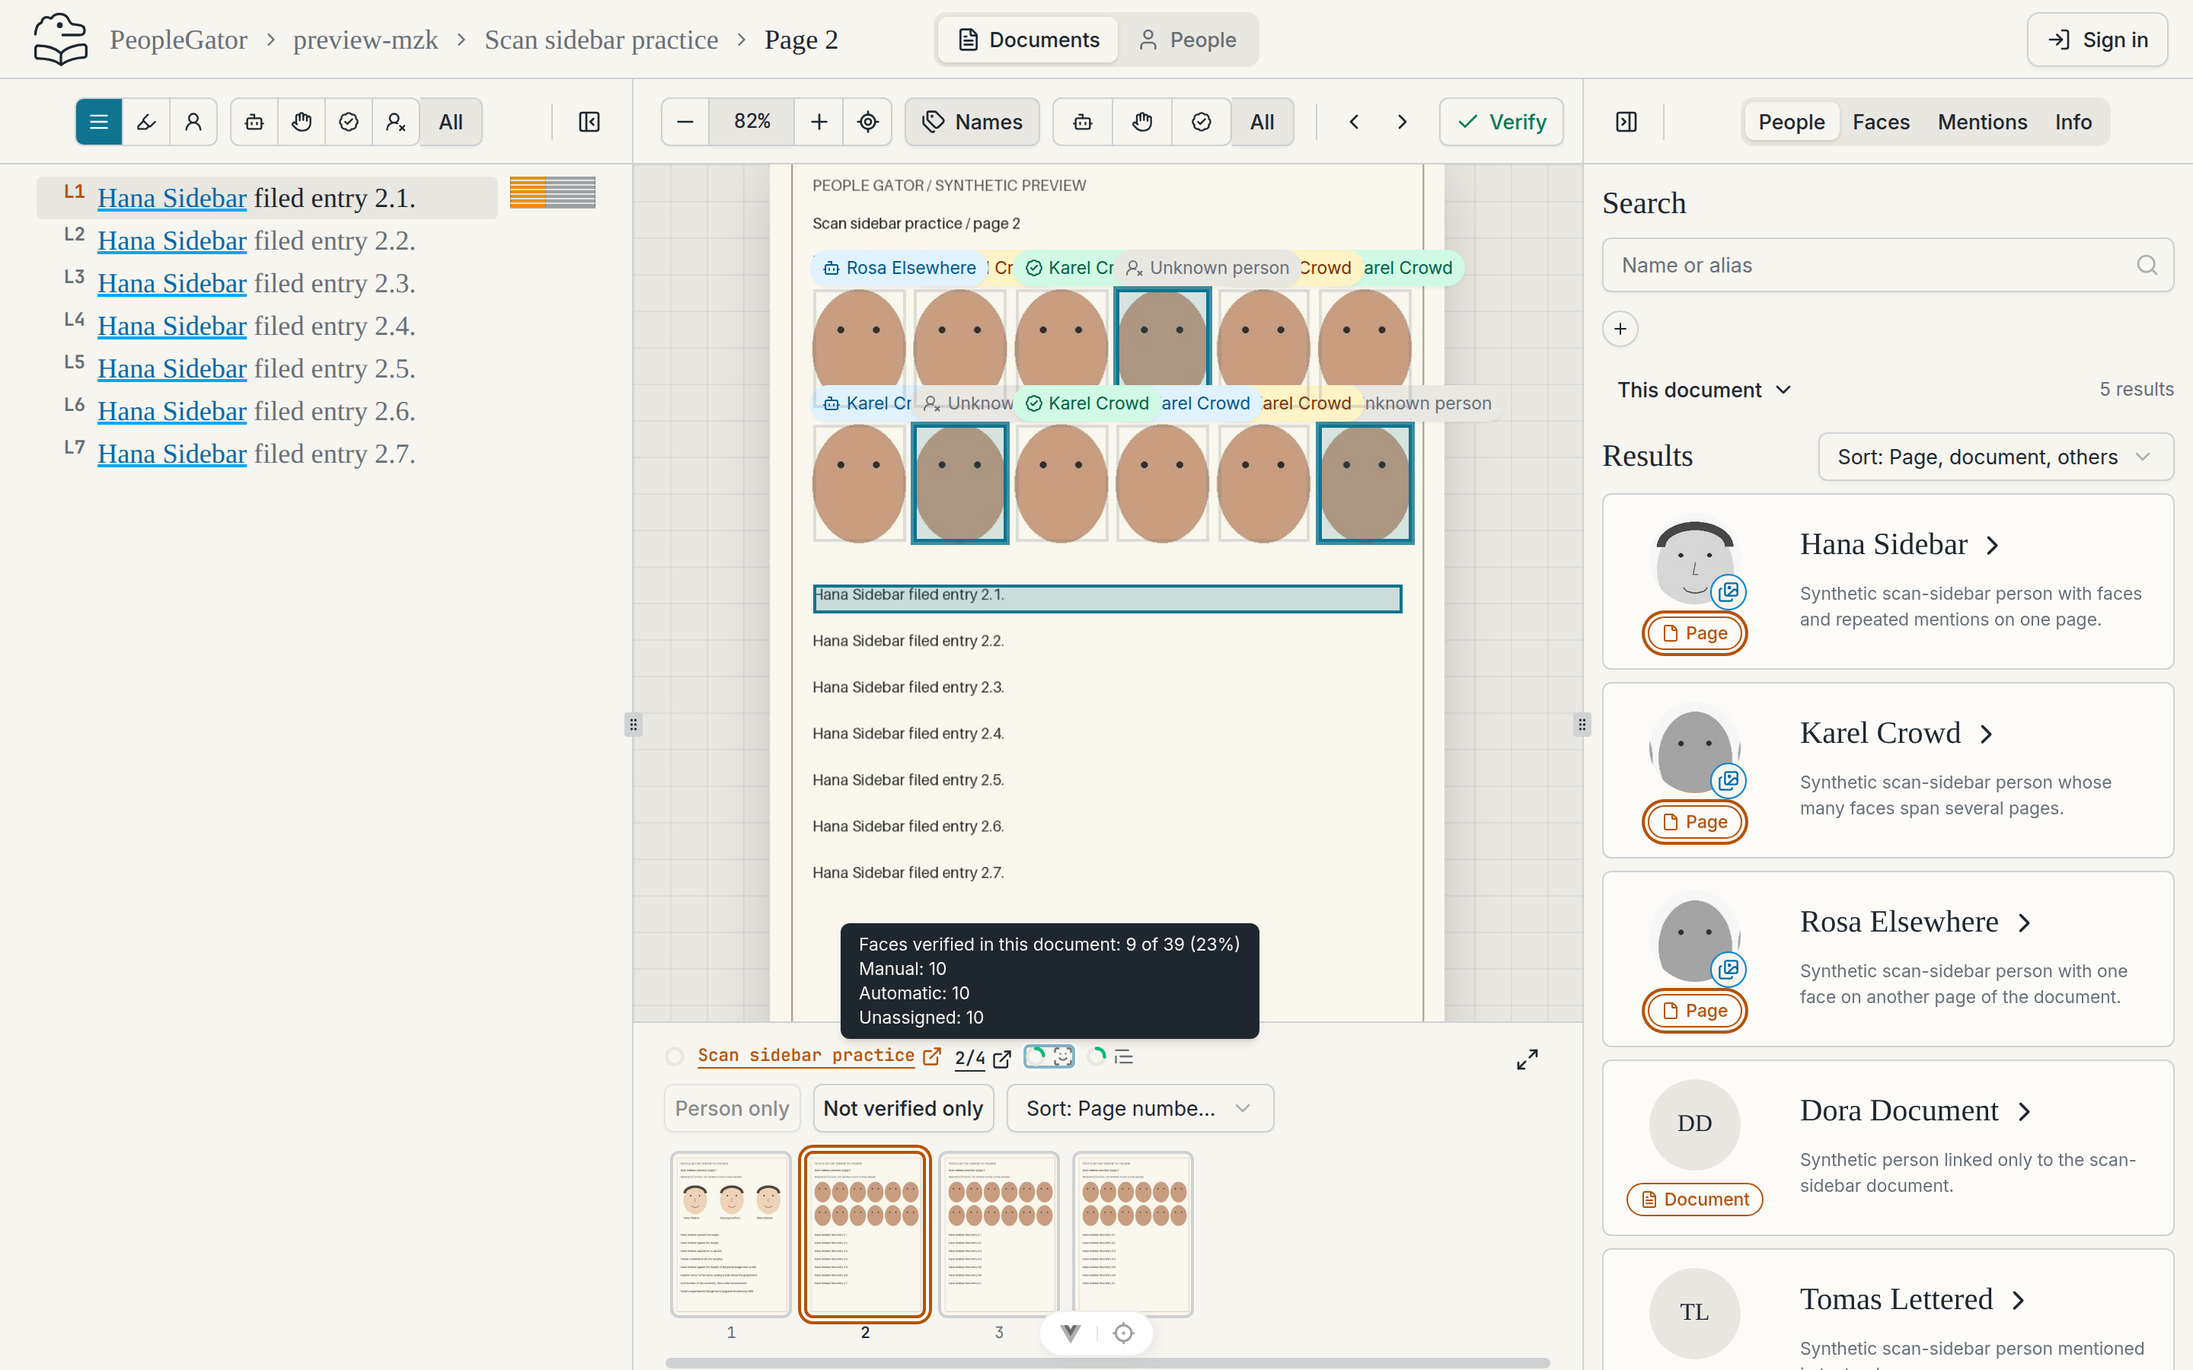
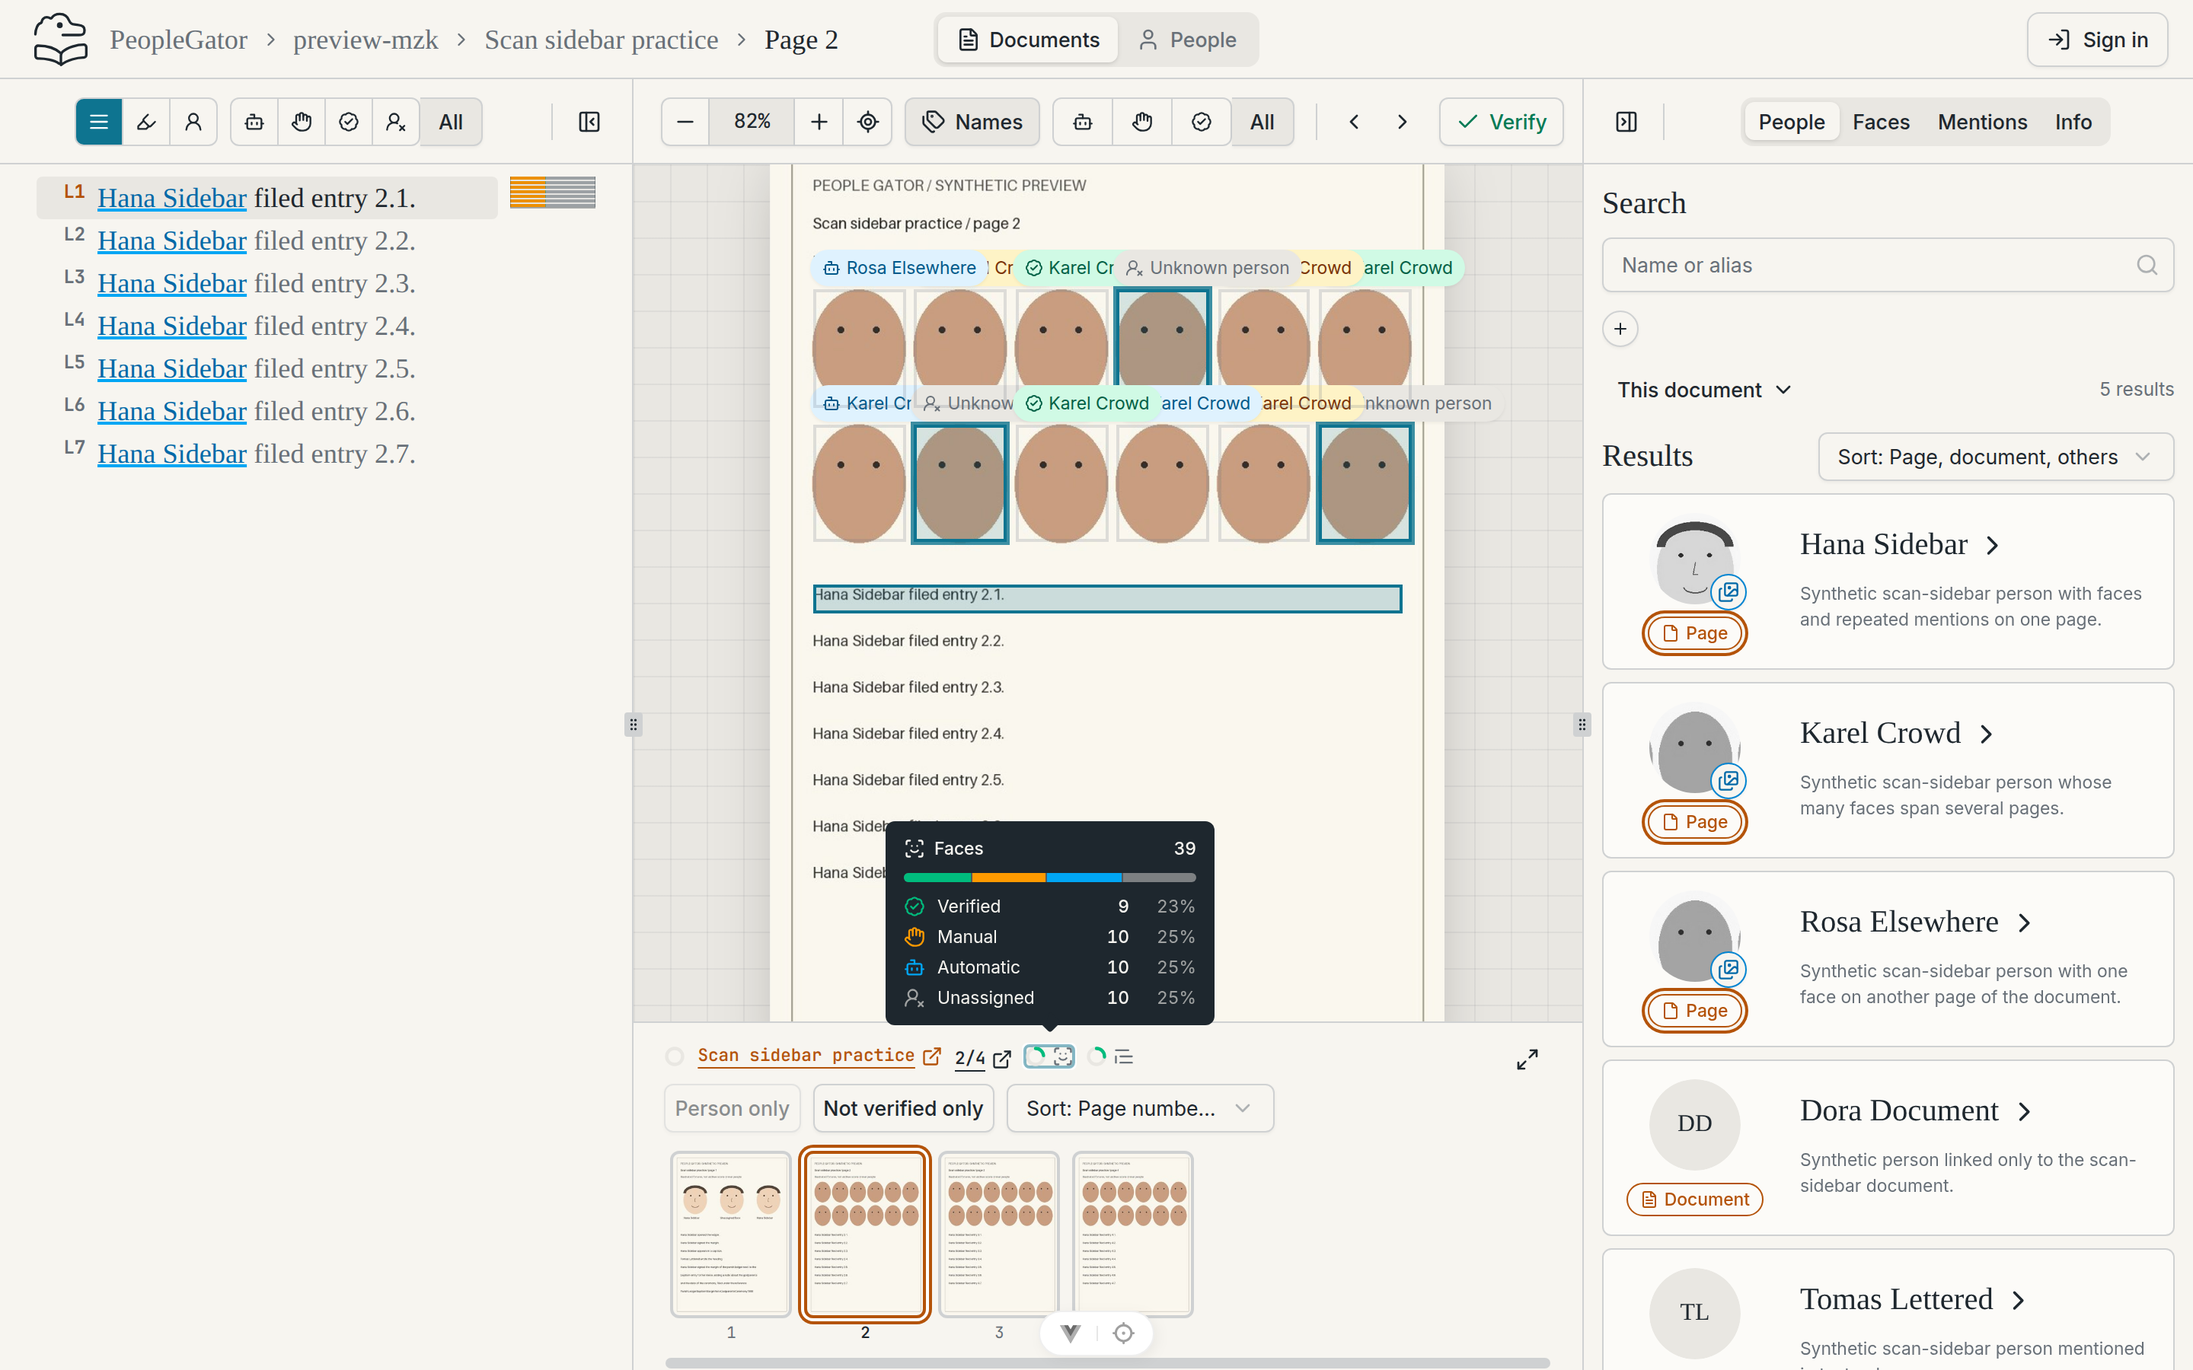
Show the progress ring breakdown as a structured shadcn tooltip (#180)
Adds the standard shadcn-vue Tooltip. Each ring's tooltip has a titled total,
a segmented bar and one row per state with its icon, count and share.

Changed region(s): [[0.375, 0.5911, 0.5938, 0.7778]]

diff --git a/people-gator-app/src/components/custom/VerificationProgress.vue b/people-gator-app/src/components/custom/VerificationProgress.vue
@@ -1,7 +1,8 @@
 <script setup lang="ts">
 import { computed } from 'vue'
-import { verificationProgress } from '@/lib/verification'
-import UiTooltip from './UiTooltip.vue'
+import { Tooltip, TooltipContent, TooltipProvider, TooltipTrigger } from '@/components/ui/tooltip'
+import { verificationProgress, type ProgressBreakdown } from '@/lib/verification'
+import ProgressBreakdownPanel from './ProgressBreakdown.vue'
 
 defineOptions({ inheritAttrs: false })
 
@@ -11,8 +12,8 @@ const props = defineProps<{
   hideCount?: boolean
   /** What is being verified; the default slot may show its icon after the ring. */
   noun?: string
-  /** Tooltip explaining the ring, one fact per line; makes the ring focusable. */
-  details?: string
+  /** Tooltip explaining the ring and splitting its total; makes the ring focusable. */
+  breakdown?: ProgressBreakdown
 }>()
 const RADIUS = 6
 const CIRCUMFERENCE = 2 * Math.PI * RADIUS
@@ -26,33 +27,40 @@ const label = computed(() =>
 </script>
 
 <template>
-  <UiTooltip v-if="details" :text="details">
-    <span
-      class="inline-flex shrink-0 items-center gap-1 text-sm tabular-nums"
-      role="img"
-      :aria-label="label"
-      tabindex="0"
-      data-verification-progress
-      v-bind="$attrs"
-    >
-      <svg viewBox="0 0 16 16" class="size-4 -rotate-90" aria-hidden="true">
-        <circle cx="8" cy="8" :r="RADIUS" fill="none" stroke-width="2.5" class="stroke-muted" />
-        <circle
-          v-if="share > 0"
-          cx="8"
-          cy="8"
-          :r="RADIUS"
-          fill="none"
-          stroke-width="2.5"
-          stroke-linecap="round"
-          class="stroke-emerald-500"
-          :stroke-dasharray="`${share * CIRCUMFERENCE} ${CIRCUMFERENCE}`"
-        />
-      </svg>
-      <slot />
-      <span v-if="!hideCount" aria-hidden="true">{{ known ? `${verified}/${total}` : '–/–' }}</span>
-    </span>
-  </UiTooltip>
+  <TooltipProvider v-if="breakdown" :delay-duration="200">
+    <Tooltip>
+      <TooltipTrigger as-child>
+        <span
+          class="inline-flex shrink-0 items-center gap-1 text-sm tabular-nums"
+          role="img"
+          :aria-label="label"
+          tabindex="0"
+          data-verification-progress
+          v-bind="$attrs"
+        >
+          <svg viewBox="0 0 16 16" class="size-4 -rotate-90" aria-hidden="true">
+            <circle cx="8" cy="8" :r="RADIUS" fill="none" stroke-width="2.5" class="stroke-muted" />
+            <circle
+              v-if="share > 0"
+              cx="8"
+              cy="8"
+              :r="RADIUS"
+              fill="none"
+              stroke-width="2.5"
+              stroke-linecap="round"
+              class="stroke-emerald-500"
+              :stroke-dasharray="`${share * CIRCUMFERENCE} ${CIRCUMFERENCE}`"
+            />
+          </svg>
+          <slot />
+          <span v-if="!hideCount" aria-hidden="true">{{
+            known ? `${verified}/${total}` : '–/–'
+          }}</span>
+        </span>
+      </TooltipTrigger>
+      <TooltipContent side="top"><ProgressBreakdownPanel :breakdown="breakdown" /></TooltipContent>
+    </Tooltip>
+  </TooltipProvider>
   <span
     v-else
     class="inline-flex shrink-0 items-center gap-1 text-sm tabular-nums"

diff --git a/people-gator-app/src/lib/verification.ts b/people-gator-app/src/lib/verification.ts
@@ -1,4 +1,5 @@
-import { BadgeCheck, CircleDashed } from '@lucide/vue'
+import { BadgeCheck, CircleDashed, FileText, ScanFace, TextQuote } from '@lucide/vue'
+import type { Component } from 'vue'
 import type { EntityLinkStateCounts, VerificationState } from '@/client'
 import { linkStateVisuals } from '@/lib/entity-links'
 
@@ -27,22 +28,62 @@ export function verifiedPercentLabel(verified?: number | null, total?: number | 
     : `${Math.floor(verificationProgress(verified, total) * 100)}%`
 }
 
-/** Tooltip for a document's page ring: what it measures, then the remainder. */
-export function pageProgressDetails(verified: number, total: number) {
-  return [
-    `Pages verified in this document: ${verified} of ${total} (${verifiedPercentLabel(verified, total)})`,
-    `Not verified: ${Math.max(0, total - verified)}`,
-  ].join('\n')
+/** One counted state in a progress tooltip; `tone` colours its icon and bar segment. */
+export type ProgressRow = {
+  key: string
+  label: string
+  icon: Component
+  count: number
+  tone: 'verified' | 'manual' | 'automatic' | 'rest'
+}
+/** What a progress ring measures and how its total splits up. */
+export type ProgressBreakdown = {
+  title: string
+  icon: Component
+  total: number
+  rows: ProgressRow[]
 }
 
-/** Tooltip for a document's face or mention ring, with every link state. */
-export function linkProgressDetails(kind: 'faces' | 'mentions', counts?: EntityLinkStateCounts) {
-  const verified = counts?.verified ?? 0
-  const total = counts?.total ?? 0
-  return [
-    `${kind === 'faces' ? 'Faces' : 'Mentions'} verified in this document: ${verified} of ${total} (${verifiedPercentLabel(verified, total)})`,
-    `Manual: ${counts?.manual ?? 0}`,
-    `Automatic: ${counts?.automatic ?? 0}`,
-    `Unassigned: ${counts?.unassigned ?? 0}`,
-  ].join('\n')
+/** Registered pages of a document: verified, then the remainder. */
+export function pageProgressBreakdown(verified: number, total: number): ProgressBreakdown {
+  return {
+    title: 'Pages',
+    icon: FileText,
+    total,
+    rows: [
+      {
+        key: 'verified',
+        label: verificationVisuals.verified.label,
+        icon: verificationVisuals.verified.icon,
+        count: verified,
+        tone: 'verified',
+      },
+      {
+        key: 'not_verified',
+        label: verificationVisuals.not_verified.label,
+        icon: verificationVisuals.not_verified.icon,
+        count: Math.max(0, total - verified),
+        tone: 'rest',
+      },
+    ],
+  }
+}
+
+/** A document's faces or mentions split by link state. */
+export function linkProgressBreakdown(
+  kind: 'faces' | 'mentions',
+  counts?: EntityLinkStateCounts,
+): ProgressBreakdown {
+  return {
+    title: kind === 'faces' ? 'Faces' : 'Mentions',
+    icon: kind === 'faces' ? ScanFace : TextQuote,
+    total: counts?.total ?? 0,
+    rows: (['verified', 'manual', 'automatic', 'unassigned'] as const).map((state) => ({
+      key: state,
+      label: linkStateVisuals[state].label,
+      icon: linkStateVisuals[state].icon,
+      count: counts?.[state] ?? 0,
+      tone: state === 'unassigned' ? 'rest' : state,
+    })),
+  }
 }

diff --git a/people-gator-app/src/components/custom/ProgressBreakdown.vue b/people-gator-app/src/components/custom/ProgressBreakdown.vue
@@ -1,0 +1,49 @@
+<script setup lang="ts">
+import type { ProgressBreakdown, ProgressRow } from '@/lib/verification'
+
+defineProps<{ breakdown: ProgressBreakdown }>()
+
+// Mid tones stay legible on the tooltip's inverted surface in both themes.
+const tones: Record<ProgressRow['tone'], { icon: string; bar: string }> = {
+  verified: { icon: 'text-emerald-500', bar: 'bg-emerald-500' },
+  manual: { icon: 'text-amber-500', bar: 'bg-amber-500' },
+  automatic: { icon: 'text-sky-500', bar: 'bg-sky-500' },
+  rest: { icon: 'opacity-60', bar: 'bg-background/25' },
+}
+const percent = (count: number, total: number) =>
+  total ? `${Math.floor((count / total) * 100)}%` : '–'
+</script>
+
+<template>
+  <div class="grid w-48 gap-2 py-1 text-left" data-progress-breakdown>
+    <div class="flex items-center gap-1.5 font-medium">
+      <component :is="breakdown.icon" class="size-3.5 shrink-0" aria-hidden="true" />
+      <span>{{ breakdown.title }}</span>
+      <span class="ml-auto tabular-nums">{{ breakdown.total }}</span>
+    </div>
+    <div class="flex h-1.5 gap-px overflow-hidden rounded-full bg-background/25" aria-hidden="true">
+      <template v-for="row in breakdown.rows" :key="row.key">
+        <span
+          v-if="row.count && breakdown.total"
+          :class="tones[row.tone].bar"
+          :style="{ width: `${(row.count / breakdown.total) * 100}%` }"
+        />
+      </template>
+    </div>
+    <dl class="grid grid-cols-[auto_1fr_auto_auto] items-center gap-x-2 gap-y-1">
+      <template v-for="row in breakdown.rows" :key="row.key">
+        <component
+          :is="row.icon"
+          class="size-3.5"
+          :class="tones[row.tone].icon"
+          aria-hidden="true"
+        />
+        <dt>{{ row.label }}</dt>
+        <dd class="text-right font-medium tabular-nums">{{ row.count }}</dd>
+        <dd class="w-9 text-right tabular-nums opacity-60">
+          {{ percent(row.count, breakdown.total) }}
+        </dd>
+      </template>
+    </dl>
+  </div>
+</template>

diff --git a/people-gator-app/src/__tests__/DocumentPageGallery.spec.ts b/people-gator-app/src/__tests__/DocumentPageGallery.spec.ts
@@ -103,6 +103,14 @@ describe('DocumentPageGallery', () => {
     ])
     expect(rings[0]!.findAll('circle')).toHaveLength(2)
     expect(rings[1]!.findAll('circle')).toHaveLength(1)
+    vi.stubGlobal(
+      'ResizeObserver',
+      class {
+        observe() {}
+        unobserve() {}
+        disconnect() {}
+      },
+    )
     // Focus explains the ring and breaks the total down by link state.
     await wrapper.setProps({
       linkStats: { faces: { verified: 2, manual: 1, automatic: 1, unassigned: 1, total: 5 } },
@@ -114,9 +122,21 @@ describe('DocumentPageGallery', () => {
     expect(pages!.attributes('tabindex')).toBe('0')
     await faces!.trigger('focus')
     await flushPromises()
-    expect(document.body.textContent).toContain(
-      'Faces verified in this document: 2 of 5 (40%)\nManual: 1\nAutomatic: 1\nUnassigned: 1',
-    )
+    const panel = document.body.querySelector('[data-progress-breakdown]')!
+    expect(panel.querySelector('div')!.textContent).toBe('Faces5')
+    expect(
+      [...panel.querySelectorAll('dt')].map((term) => [
+        term.textContent,
+        term.nextElementSibling!.textContent,
+        term.nextElementSibling!.nextElementSibling!.textContent!.trim(),
+      ]),
+    ).toEqual([
+      ['Verified', '2', '40%'],
+      ['Manual', '1', '20%'],
+      ['Automatic', '1', '20%'],
+      ['Unassigned', '1', '20%'],
+    ])
+    vi.unstubAllGlobals()
     wrapper.unmount()
   })
 

diff --git a/people-gator-app/src/components/ui/tooltip/TooltipContent.vue b/people-gator-app/src/components/ui/tooltip/TooltipContent.vue
@@ -1,0 +1,34 @@
+<script setup lang="ts">
+import type { TooltipContentEmits, TooltipContentProps } from "reka-ui"
+import type { HTMLAttributes } from "vue"
+import { reactiveOmit } from "@vueuse/core"
+import { cn } from "@/lib/utils"
+import { TooltipArrow, TooltipContent, TooltipPortal, useForwardPropsEmits } from "reka-ui"
+
+defineOptions({
+  inheritAttrs: false,
+})
+
+const props = withDefaults(defineProps<TooltipContentProps & { class?: HTMLAttributes["class"] }>(), {
+  sideOffset: 4,
+})
+
+const emits = defineEmits<TooltipContentEmits>()
+
+const delegatedProps = reactiveOmit(props, "class")
+const forwarded = useForwardPropsEmits(delegatedProps, emits)
+</script>
+
+<template>
+  <TooltipPortal>
+    <TooltipContent
+      data-slot="tooltip-content"
+      v-bind="{ ...forwarded, ...$attrs }"
+      :class="cn('bg-foreground text-background animate-in fade-in-0 zoom-in-95 data-[state=closed]:animate-out data-[state=closed]:fade-out-0 data-[state=closed]:zoom-out-95 data-[side=bottom]:slide-in-from-top-2 data-[side=left]:slide-in-from-right-2 data-[side=right]:slide-in-from-left-2 data-[side=top]:slide-in-from-bottom-2 z-50 w-fit rounded-md px-3 py-1.5 text-xs text-balance', props.class)"
+    >
+      <slot />
+
+      <TooltipArrow class="bg-foreground fill-foreground z-50 size-2.5 translate-y-[calc(-50%_-_2px)] rotate-45 rounded-xs" />
+    </TooltipContent>
+  </TooltipPortal>
+</template>

diff --git a/people-gator-app/src/components/custom/DocumentPageGallery.vue b/people-gator-app/src/components/custom/DocumentPageGallery.vue
@@ -15,7 +15,7 @@ import SortControl from './SortControl.vue'
 import VerificationBadge from './VerificationBadge.vue'
 import VerificationProgress from './VerificationProgress.vue'
 import type { SortOption, SortState } from '@/lib/sorting'
-import { linkProgressDetails, pageProgressDetails } from '@/lib/verification'
+import { linkProgressBreakdown, pageProgressBreakdown } from '@/lib/verification'
 import { sourceLinkClass, sourceLinkTextClass } from '@/lib/source-link'
 
 const props = defineProps<{
@@ -144,7 +144,7 @@ useAutomaticPagination({
               :verified="verifiedPageCount"
               :total="documentPageCount"
               hide-count
-              :details="pageProgressDetails(verifiedPageCount, documentPageCount)"
+              :breakdown="pageProgressBreakdown(verifiedPageCount, documentPageCount)"
             />
             <h2
               id="document-pages-title"
@@ -179,7 +179,7 @@ useAutomaticPagination({
                 :verified="linkStats[kind.key]?.verified ?? 0"
                 :total="linkStats[kind.key]?.total ?? 0"
                 :noun="kind.key"
-                :details="linkProgressDetails(kind.key, linkStats[kind.key])"
+                :breakdown="linkProgressBreakdown(kind.key, linkStats[kind.key])"
                 hide-count
                 class="text-muted-foreground"
                 :data-link-progress="kind.key"

diff --git a/people-gator-app/src/components/ui/tooltip/Tooltip.vue b/people-gator-app/src/components/ui/tooltip/Tooltip.vue
@@ -1,0 +1,19 @@
+<script setup lang="ts">
+import type { TooltipRootEmits, TooltipRootProps } from "reka-ui"
+import { TooltipRoot, useForwardPropsEmits } from "reka-ui"
+
+const props = defineProps<TooltipRootProps>()
+const emits = defineEmits<TooltipRootEmits>()
+
+const forwarded = useForwardPropsEmits(props, emits)
+</script>
+
+<template>
+  <TooltipRoot
+    v-slot="slotProps"
+    data-slot="tooltip"
+    v-bind="forwarded"
+  >
+    <slot v-bind="slotProps" />
+  </TooltipRoot>
+</template>

diff --git a/people-gator-app/src/components/custom/UiTooltip.vue b/people-gator-app/src/components/custom/UiTooltip.vue
@@ -16,7 +16,7 @@ defineProps<{ text: string }>()
         ><TooltipContent
           side="top"
           :side-offset="5"
-          class="z-50 max-w-xs whitespace-pre-line rounded-md bg-foreground px-3 py-1.5 text-xs text-background shadow-md"
+          class="z-50 max-w-xs rounded-md bg-foreground px-3 py-1.5 text-xs text-background shadow-md"
           >{{ text }}</TooltipContent
         ></TooltipPortal
       >

diff --git a/people-gator-app/src/components/ui/tooltip/TooltipProvider.vue b/people-gator-app/src/components/ui/tooltip/TooltipProvider.vue
@@ -1,0 +1,14 @@
+<script setup lang="ts">
+import type { TooltipProviderProps } from "reka-ui"
+import { TooltipProvider } from "reka-ui"
+
+const props = withDefaults(defineProps<TooltipProviderProps>(), {
+  delayDuration: 0,
+})
+</script>
+
+<template>
+  <TooltipProvider v-bind="props">
+    <slot />
+  </TooltipProvider>
+</template>

diff --git a/people-gator-app/src/components/ui/tooltip/TooltipTrigger.vue b/people-gator-app/src/components/ui/tooltip/TooltipTrigger.vue
@@ -1,0 +1,15 @@
+<script setup lang="ts">
+import type { TooltipTriggerProps } from "reka-ui"
+import { TooltipTrigger } from "reka-ui"
+
+const props = defineProps<TooltipTriggerProps>()
+</script>
+
+<template>
+  <TooltipTrigger
+    data-slot="tooltip-trigger"
+    v-bind="props"
+  >
+    <slot />
+  </TooltipTrigger>
+</template>

diff --git a/people-gator-app/src/components/ui/tooltip/index.ts b/people-gator-app/src/components/ui/tooltip/index.ts
@@ -1,0 +1,4 @@
+export { default as Tooltip } from "./Tooltip.vue"
+export { default as TooltipContent } from "./TooltipContent.vue"
+export { default as TooltipProvider } from "./TooltipProvider.vue"
+export { default as TooltipTrigger } from "./TooltipTrigger.vue"
